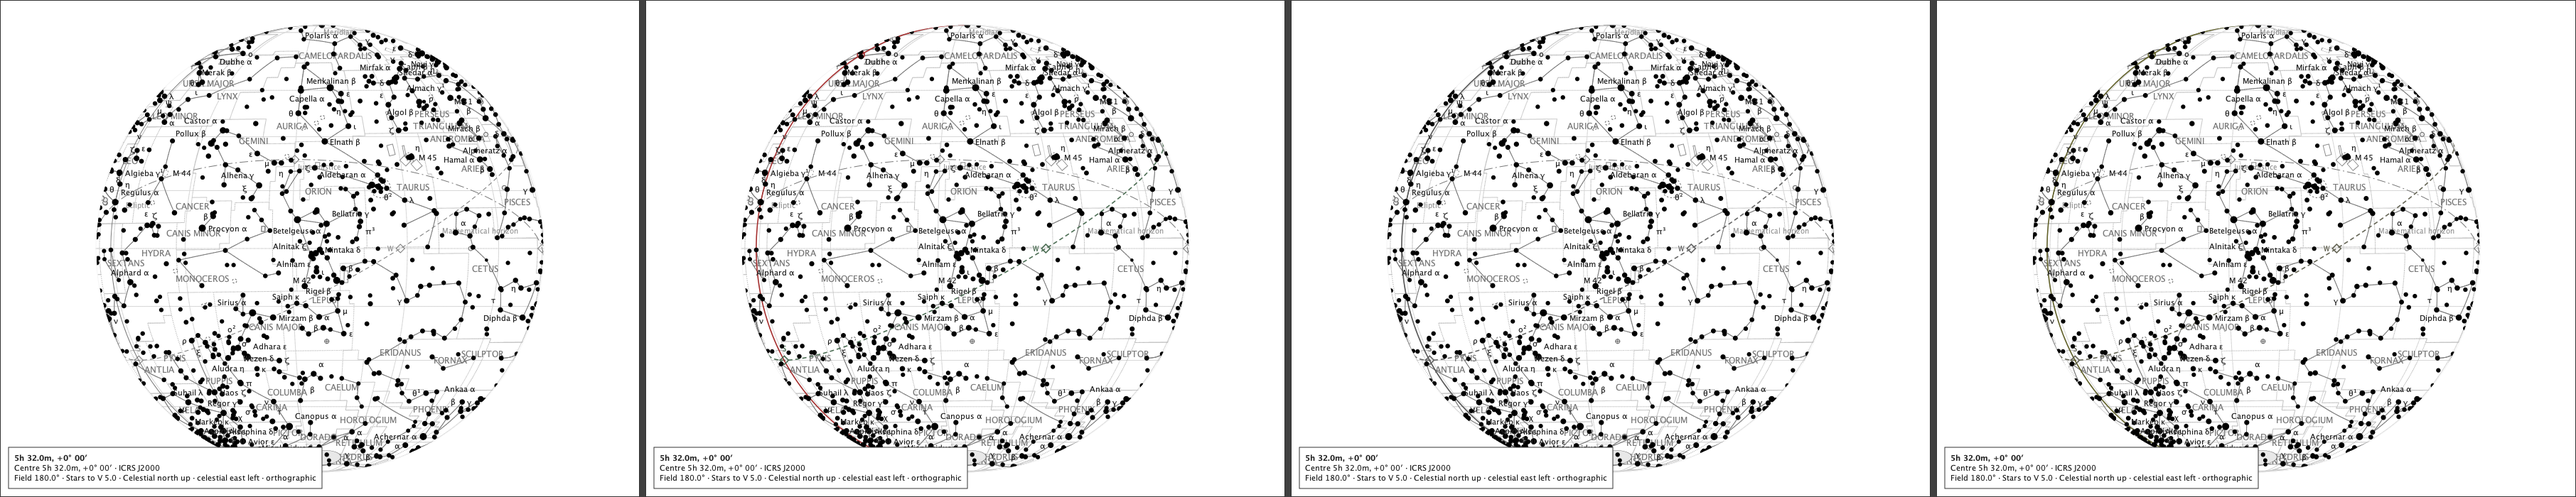
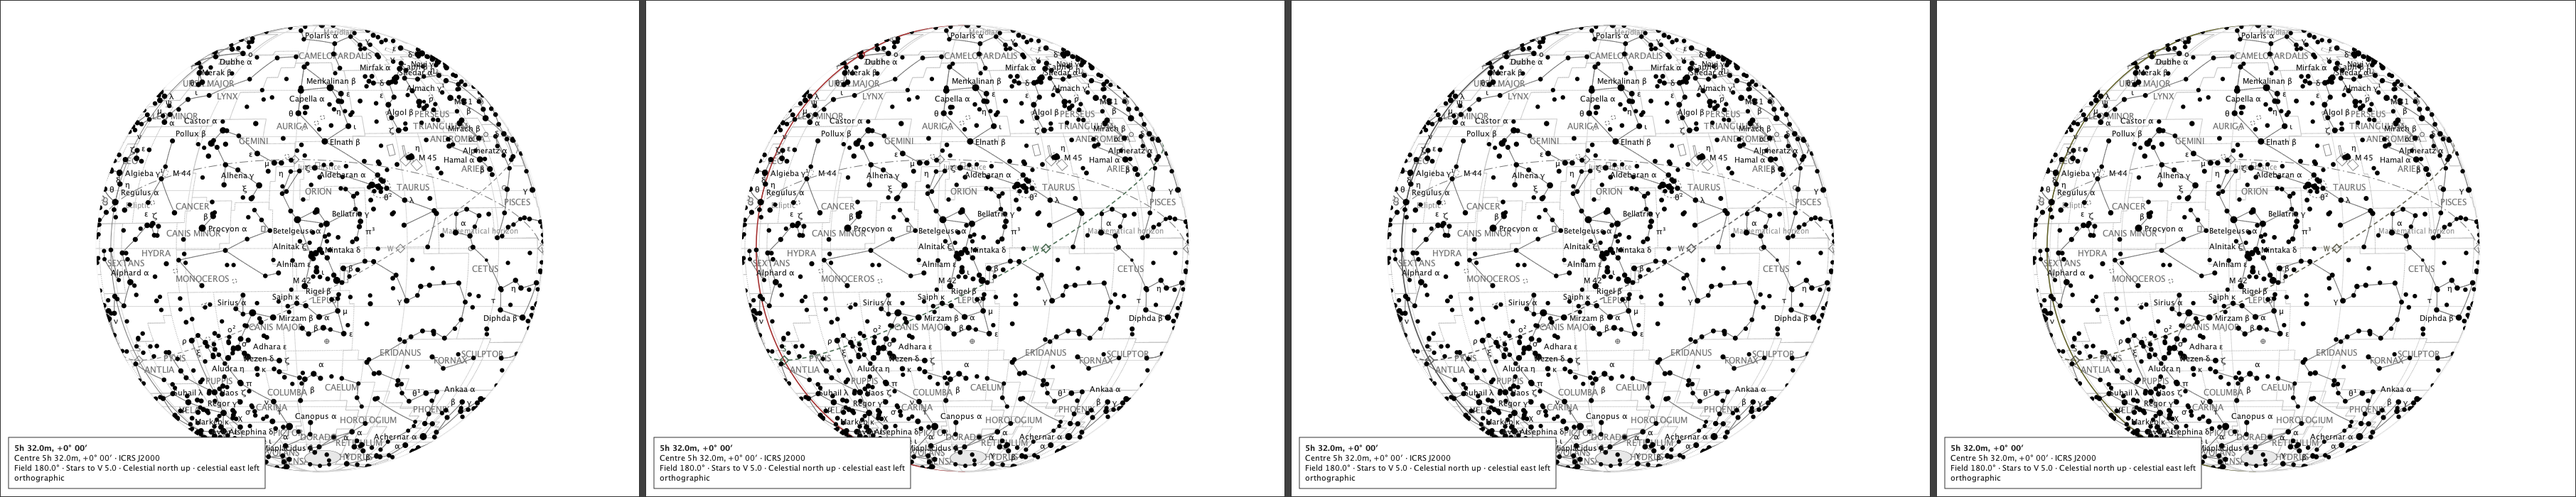
The globe records say what the landmarks and the wrapped title did
Promotion of the owner-approved manifest for the #359 completion,
exactly nine files, each from its registered generator on this
machine, headless:

  globe-modules/platform.md     accepted cardinal letters reported
                                apart; ink beyond the limb unchanged
                                (43 px, furthest 1.0009 radii)
  globe-export/platform.md      0 non-cardinal texts outside the
                                limb, 1 accepted cardinal letter
                                placed outward; PDF and PNG sizes
  globe-export/measurements.md  the owner's wording for the same
  globe-density/platform.md     }
  globe-furniture/platform.md   } the measured consequence of the
  globe-grid-fade/platform.md   } approved title wrapping and the
  globe-names/platform.md       } landmarks' space on the page
  structure-emphasis/strip-globe-180-paper-meridian+horizon.png
                                the globe pair, its title wrapped
  test-evidence/measurements.md the tests this branch adds

Measured first: the same four-pass regeneration on a clean acbe627
and on the branch, compared per artifact; the headless platform
pass reproduced every committed record on the base, so these are
the branch's own differences.

Accounting: provenance re-dates exactly one row, the strip, and
still covers 407 artifacts. The test-evidence decision requotes its
traffic counts (437 to 442 reads of live chart state, 792 to 793
[…]

diff --git a/docs/studies/globe-names/platform.md b/docs/studies/globe-names/platform.md
@@ -36,12 +36,12 @@ sagittarius, with the paper's edge as the boundary:
   limb:
     family            asked  attributed omitted   rank  in disc crosses outside
     STAR                 50          50       0      1       30      15       5
-    CONSTELLATION        23          23       0      6        8      15       0
+    CONSTELLATION        23          23       0      3        8      15       0
   whole disc:
     family            asked  attributed omitted   rank  in disc crosses outside
     STAR                150         150       0      1      130      15       5
     DEEP_SKY              1           1       0      0        1       0       0
-    CONSTELLATION        58          58       0      4       41      17       0
+    CONSTELLATION        58          58       0      3       41      17       0
 
 sagittarius, as production places them, with the limb as the boundary:
   centre:
@@ -60,7 +60,7 @@ sagittarius, as production places them, with the limb as the boundary:
     DEEP_SKY              1           1       0      0        1       0       0
     CONSTELLATION        58          50       8      4       50       0       0
     omitted labels were refused by: PAGE_EDGE 8, OWNERSHIP 8
-  of the labels the paper placed: 165 stayed where they were, 36 moved, 8 became omissions
+  of the labels the paper placed: 162 stayed where they were, 39 moved, 8 became omissions
 
 orion, with the paper's edge as the boundary:
   centre:
@@ -70,12 +70,12 @@ orion, with the paper's edge as the boundary:
     CONSTELLATION         6           6       0      9        6       0       0
   limb:
     family            asked  attributed omitted   rank  in disc crosses outside
-    STAR                 48          48       0      2       27      14       7
+    STAR                 48          48       0      2       28      13       7
     DEEP_SKY              1           1       0      0        0       1       0
     CONSTELLATION        22          22       0      5        8      14       0
   whole disc:
     family            asked  attributed omitted   rank  in disc crosses outside
-    STAR                127         127       0      1      105      15       7
+    STAR                127         127       0      2      106      14       7
     DEEP_SKY              5           5       0      0        4       1       0
     CONSTELLATION        49          49       0      7       35      14       0
 
@@ -89,7 +89,7 @@ orion, as production places them, with the limb as the boundary:
     family            asked  attributed omitted   rank  in disc crosses outside
     STAR                 48          48       0      2       48       0       0
     DEEP_SKY              1           1       0      5        1       0       0
-    CONSTELLATION        22          13       9      4       13       0       0
+    CONSTELLATION        22          13       9      5       13       0       0
     omitted labels were refused by: PAGE_EDGE 9, OWNERSHIP 9
   whole disc:
     family            asked  attributed omitted   rank  in disc crosses outside
@@ -97,4 +97,4 @@ orion, as production places them, with the limb as the boundary:
     DEEP_SKY              5           5       0      1        5       0       0
     CONSTELLATION        49          40       9      7       40       0       0
     omitted labels were refused by: PAGE_EDGE 9, OWNERSHIP 9
-  of the labels the paper placed: 139 stayed where they were, 33 moved, 9 became omissions
+  of the labels the paper placed: 138 stayed where they were, 34 moved, 9 became omissions

diff --git a/docs/studies/globe-density/platform.md b/docs/studies/globe-density/platform.md
@@ -26,23 +26,23 @@ but marks - so the furniture's floor can be told from what the stars add.
 
 page              V    stars       mid      limb      mid*     limb*
                                        (as drawn)      (marks only)
-sagittarius     4.0      303     17.8%     36.4%      3.7%      9.6%
-sagittarius     5.0      910     19.9%     40.2%      6.9%     17.1%
-sagittarius     6.0     2737     24.8%     50.0%     12.8%     31.5%
-sagittarius     7.0     8401     34.8%     64.9%     24.4%     53.6%
-sagittarius     8.0    24786     49.2%     79.0%     41.0%     74.1%
-orion           4.0      269     15.6%     33.7%      2.8%      9.6%
-orion           5.0      868     17.8%     37.0%      6.3%     16.5%
-orion           6.0     2816     24.7%     47.0%     13.9%     30.9%
-orion           7.0     8607     35.8%     61.7%     26.1%     52.2%
-orion           8.0    25131     51.2%     77.4%     44.2%     73.3%
-south-pole      4.0      308     21.1%     31.5%      5.7%      8.8%
-south-pole      5.0      932     22.4%     36.1%      8.3%     16.6%
-south-pole      6.0     2846     27.6%     46.4%     14.5%     30.9%
-south-pole      7.0     8637     37.4%     62.1%     26.2%     52.4%
-south-pole      8.0    25250     50.8%     77.8%     41.9%     73.5%
-sparse          4.0      297     10.1%     38.7%      0.9%      9.6%
-sparse          5.0      944     11.0%     43.4%      2.7%     19.0%
-sparse          6.0     2958     14.7%     54.0%      6.9%     36.3%
-sparse          7.0     9040     22.4%     70.5%     15.2%     61.0%
-sparse          8.0    26496     33.1%     84.6%     26.8%     81.2%
+sagittarius     4.0      303     17.8%     36.7%      3.7%      9.6%
+sagittarius     5.0      910     19.9%     40.6%      6.9%     17.1%
+sagittarius     6.0     2737     24.8%     50.5%     12.8%     31.5%
+sagittarius     7.0     8401     34.8%     65.5%     24.4%     53.6%
+sagittarius     8.0    24786     49.2%     79.5%     41.0%     74.1%
+orion           4.0      269     15.6%     34.3%      2.8%      9.6%
+orion           5.0      868     17.8%     37.3%      6.3%     16.5%
+orion           6.0     2816     24.7%     47.4%     13.9%     30.9%
+orion           7.0     8607     35.8%     62.2%     26.1%     52.2%
+orion           8.0    25131     51.2%     77.9%     44.2%     73.3%
+south-pole      4.0      308     21.1%     31.7%      5.7%      8.8%
+south-pole      5.0      932     22.4%     36.3%      8.3%     16.6%
+south-pole      6.0     2846     27.6%     46.6%     14.5%     30.9%
+south-pole      7.0     8637     37.4%     62.4%     26.2%     52.4%
+south-pole      8.0    25250     50.8%     78.3%     41.9%     73.5%
+sparse          4.0      297     10.1%     39.3%      0.9%      9.6%
+sparse          5.0      944     11.0%     44.1%      2.7%     19.0%
+sparse          6.0     2958     14.7%     54.5%      6.9%     36.3%
+sparse          7.0     9040     22.4%     71.0%     15.2%     61.0%
+sparse          8.0    26496     33.1%     85.2%     26.8%     81.2%

diff --git a/docs/studies/globe-furniture/platform.md b/docs/studies/globe-furniture/platform.md
@@ -23,27 +23,27 @@ evidence for the globe's furniture default, and the decision document
 cites it as one machine's measurement.
 
 page          without                     disc limb band
-sagittarius   nothing (as drawn)         24.6%     40.2%
-              constellation boundaries     21.3%     34.8%
-              the coordinate grid        21.0%     34.5%
-              constellation figures      18.9%     33.4%
-              constellation names        21.9%     37.6%
-              star names and letters     22.3%     37.0%
-orion         nothing (as drawn)         22.6%     37.0%
-              constellation boundaries     19.5%     32.7%
-              the coordinate grid        19.4%     31.4%
-              constellation figures      17.9%     31.4%
-              constellation names        20.6%     35.3%
-              star names and letters     20.1%     33.6%
-south-pole    nothing (as drawn)         25.6%     36.1%
-              constellation boundaries     22.0%     31.7%
-              the coordinate grid        22.6%     32.2%
-              constellation figures      19.5%     29.7%
-              constellation names        22.8%     34.2%
-              star names and letters     22.9%     33.1%
-sparse        nothing (as drawn)         23.6%     43.4%
-              constellation boundaries     20.3%     38.4%
-              the coordinate grid        20.1%     38.0%
-              constellation figures      18.6%     37.3%
-              constellation names        21.5%     41.1%
-              star names and letters     21.2%     38.9%
+sagittarius   nothing (as drawn)         24.7%     40.6%
+              constellation boundaries     21.3%     35.2%
+              the coordinate grid        21.1%     35.0%
+              constellation figures      18.9%     33.7%
+              constellation names        22.0%     38.0%
+              star names and letters     22.3%     37.4%
+orion         nothing (as drawn)         22.6%     37.3%
+              constellation boundaries     19.5%     32.9%
+              the coordinate grid        19.4%     31.6%
+              constellation figures      18.0%     31.8%
+              constellation names        20.6%     35.6%
+              star names and letters     20.2%     34.1%
+south-pole    nothing (as drawn)         25.6%     36.3%
+              constellation boundaries     22.1%     31.9%
+              the coordinate grid        22.7%     32.3%
+              constellation figures      19.5%     29.9%
+              constellation names        22.8%     34.4%
+              star names and letters     23.0%     33.3%
+sparse        nothing (as drawn)         23.7%     44.1%
+              constellation boundaries     20.4%     39.1%
+              the coordinate grid        20.2%     38.6%
+              constellation figures      18.7%     37.5%
+              constellation names        21.5%     41.4%
+              star names and letters     21.3%     39.4%

diff --git a/docs/studies/globe-modules/platform.md b/docs/studies/globe-modules/platform.md
@@ -21,19 +21,19 @@ this desktop's font measures, so both are here. The report beside this one
 carries the centres the modules were asked at and why the sky's own labels
 cannot be moved by any of it.
 
-centred on       ink inside ink beyond  furthest     names
-zenith-overhead        6197         43    1.0009         2
+centred on       ink inside ink beyond  furthest     names accepted cardinal
+zenith-overhead        6051         43    1.0009         2              171
     ecliptic       Ecliptic                 inside the disc
     meridian       Meridian                 inside the disc
-horizon-south          5850          0    0.9996         3
-    ecliptic       Ecliptic                 inside the disc
-    meridian       Mathematical horizon     inside the disc
-    meridian       Meridian                 inside the disc
-ecliptic-high          6717          0    0.9998         3
+horizon-south          5732          0    0.9996         3              127
     ecliptic       Ecliptic                 inside the disc
     meridian       Mathematical horizon     inside the disc
     meridian       Meridian                 inside the disc
-sagittarius            6721          8    1.0004         3
+ecliptic-high          6624          0    0.9998         3               93
+    ecliptic       Ecliptic                 inside the disc
+    meridian       Mathematical horizon     inside the disc
+    meridian       Meridian                 inside the disc
+sagittarius            6641          8    1.0004         3               80
     ecliptic       Ecliptic                 inside the disc
     meridian       Mathematical horizon     inside the disc
     meridian       Meridian                 inside the disc

diff --git a/docs/studies/PROVENANCE.md b/docs/studies/PROVENANCE.md
@@ -418,7 +418,7 @@ that merely passed would date the check rather than the decision.
[8 lines of base64/hex data omitted]

diff --git a/docs/decisions/test-evidence.md b/docs/decisions/test-evidence.md
@@ -377,8 +377,8 @@ aborts — a run count, not a claim of eliminated intermittence.
 Text cannot decide whether a read runs on the event thread — that
 is control flow, and #220 proved the cost of guessing, three times
 (the journey's mark derivation, its page offset, and finally its
-own premise capture). The measurements count the traffic: **437
-reads of live chart state** against **792 explicit hand-offs**
+own premise capture). The measurements count the traffic: **442
+reads of live chart state** against **793 explicit hand-offs**
 suite-wide (requoted for the #261 reader-surface tests, which read
 scenes and marks under the same one-hand-off discipline; for #275's
 closing journey, which reads the page's own objects and takes its
@@ -419,7 +419,10 @@ screen reader is actually handed; and for the horizon-pan
 regression journeys, which drag a headless chart through the
 controller's own atomic pans and read the view state they steered -
 reads of a component no event thread is painting, counted with the
-rest). The discipline
+rest; and for the #359 completion's cardinal landmark journeys,
+which read the page they painted - its scene and page offset - on
+the event thread, because a chart painted off it raced the toolkit
+and drew the opening page). The discipline
 that closed #220 — derive, read and act
 in **one** `invokeAndWait`, with the deterministic queued-change
 race tests holding it — is the named pattern; its mutations already

diff --git a/docs/studies/globe-grid-fade/platform.md b/docs/studies/globe-grid-fade/platform.md
@@ -21,11 +21,11 @@ answer. The report beside this one carries the candidates themselves and the
 rule they are candidates for.
 
 page            at limb    grid ink  grid weight  page weight
-sagittarius        100%       23.4%       10.98%       15.57%
-sagittarius         35%       23.1%        8.27%       15.33%
-sagittarius         25%       23.1%        7.85%       15.30%
-sagittarius         15%       22.9%        7.44%       15.26%
-orion              100%       22.1%       10.13%       14.37%
-orion               35%       21.9%        7.49%       14.08%
-orion               25%       21.8%        7.09%       14.04%
-orion               15%       21.7%        6.68%       13.99%
+sagittarius        100%       23.4%       10.98%       15.66%
+sagittarius         35%       23.1%        8.27%       15.45%
+sagittarius         25%       23.1%        7.85%       15.42%
+sagittarius         15%       22.9%        7.44%       15.39%
+orion              100%       22.1%       10.13%       14.35%
+orion               35%       21.9%        7.49%       14.04%
+orion               25%       21.8%        7.09%       14.00%
+orion               15%       21.7%        6.68%       13.95%

diff --git a/docs/studies/globe-export/platform.md b/docs/studies/globe-export/platform.md
@@ -52,12 +52,12 @@ recovers less than the two rows together.
 
 ## The core globe, no modules
 
-  SVG   1651667 bytes  197 text elements, 0 anchored outside the limb
+  SVG   1651667 bytes  197 text elements, 0 non-cardinal anchored outside the limb, 0 accepted cardinal letters placed outward
   PDF   2606338 bytes  geometry not read back from this format
   PNG    994713 bytes  1012137 px inside the limb, 51155 beyond it of which 51155 is the page's own furniture
 
 ## The same globe with modules
 
-  SVG   1654809 bytes  203 text elements, 0 anchored outside the limb
-  PDF   2632723 bytes  geometry not read back from this format
-  PNG   1029204 bytes  1042945 px inside the limb, 51155 beyond it of which 51155 is the page's own furniture
+  SVG   1654809 bytes  203 text elements, 0 non-cardinal anchored outside the limb, 1 accepted cardinal letter placed outward
+  PDF   2632459 bytes  geometry not read back from this format
+  PNG   1028734 bytes  1041295 px inside the limb, 51155 beyond it of which 51155 is the page's own furniture

diff --git a/docs/studies/test-evidence/measurements.md b/docs/studies/test-evidence/measurements.md
@@ -185,8 +185,8 @@ The study mains and the packaged acceptance are single-JVM runs: a look and feel
 
 Whether a particular read happens on the event thread is control flow, which text cannot decide; issue #220 proved the cost of guessing, three times. What can be counted is the traffic:
 
-- reads of live chart state (currentScene, pageOffsetY, navigation.state): **437** across the suite
-- explicit event-thread hand-offs (invokeAndWait): **792**
+- reads of live chart state (currentScene, pageOffsetY, navigation.state): **442** across the suite
+- explicit event-thread hand-offs (invokeAndWait): **793**
 
 ## Generated evidence, classified
 

diff --git a/docs/studies/globe-export/measurements.md b/docs/studies/globe-export/measurements.md
@@ -48,7 +48,7 @@ platform record beside this and held to reproducing within one environment.
 
 ## The same globe with modules
 
-  SVG  identity: orthographic  no text anchored outside the limb
+  SVG  identity: orthographic  no non-cardinal sky text is anchored outside the limb; 1 accepted cardinal letter is placed outward
   PDF  identity: orthographic  geometry not read back from this format
   PNG  identity: orthographic  no sky ink beyond the limb
 
